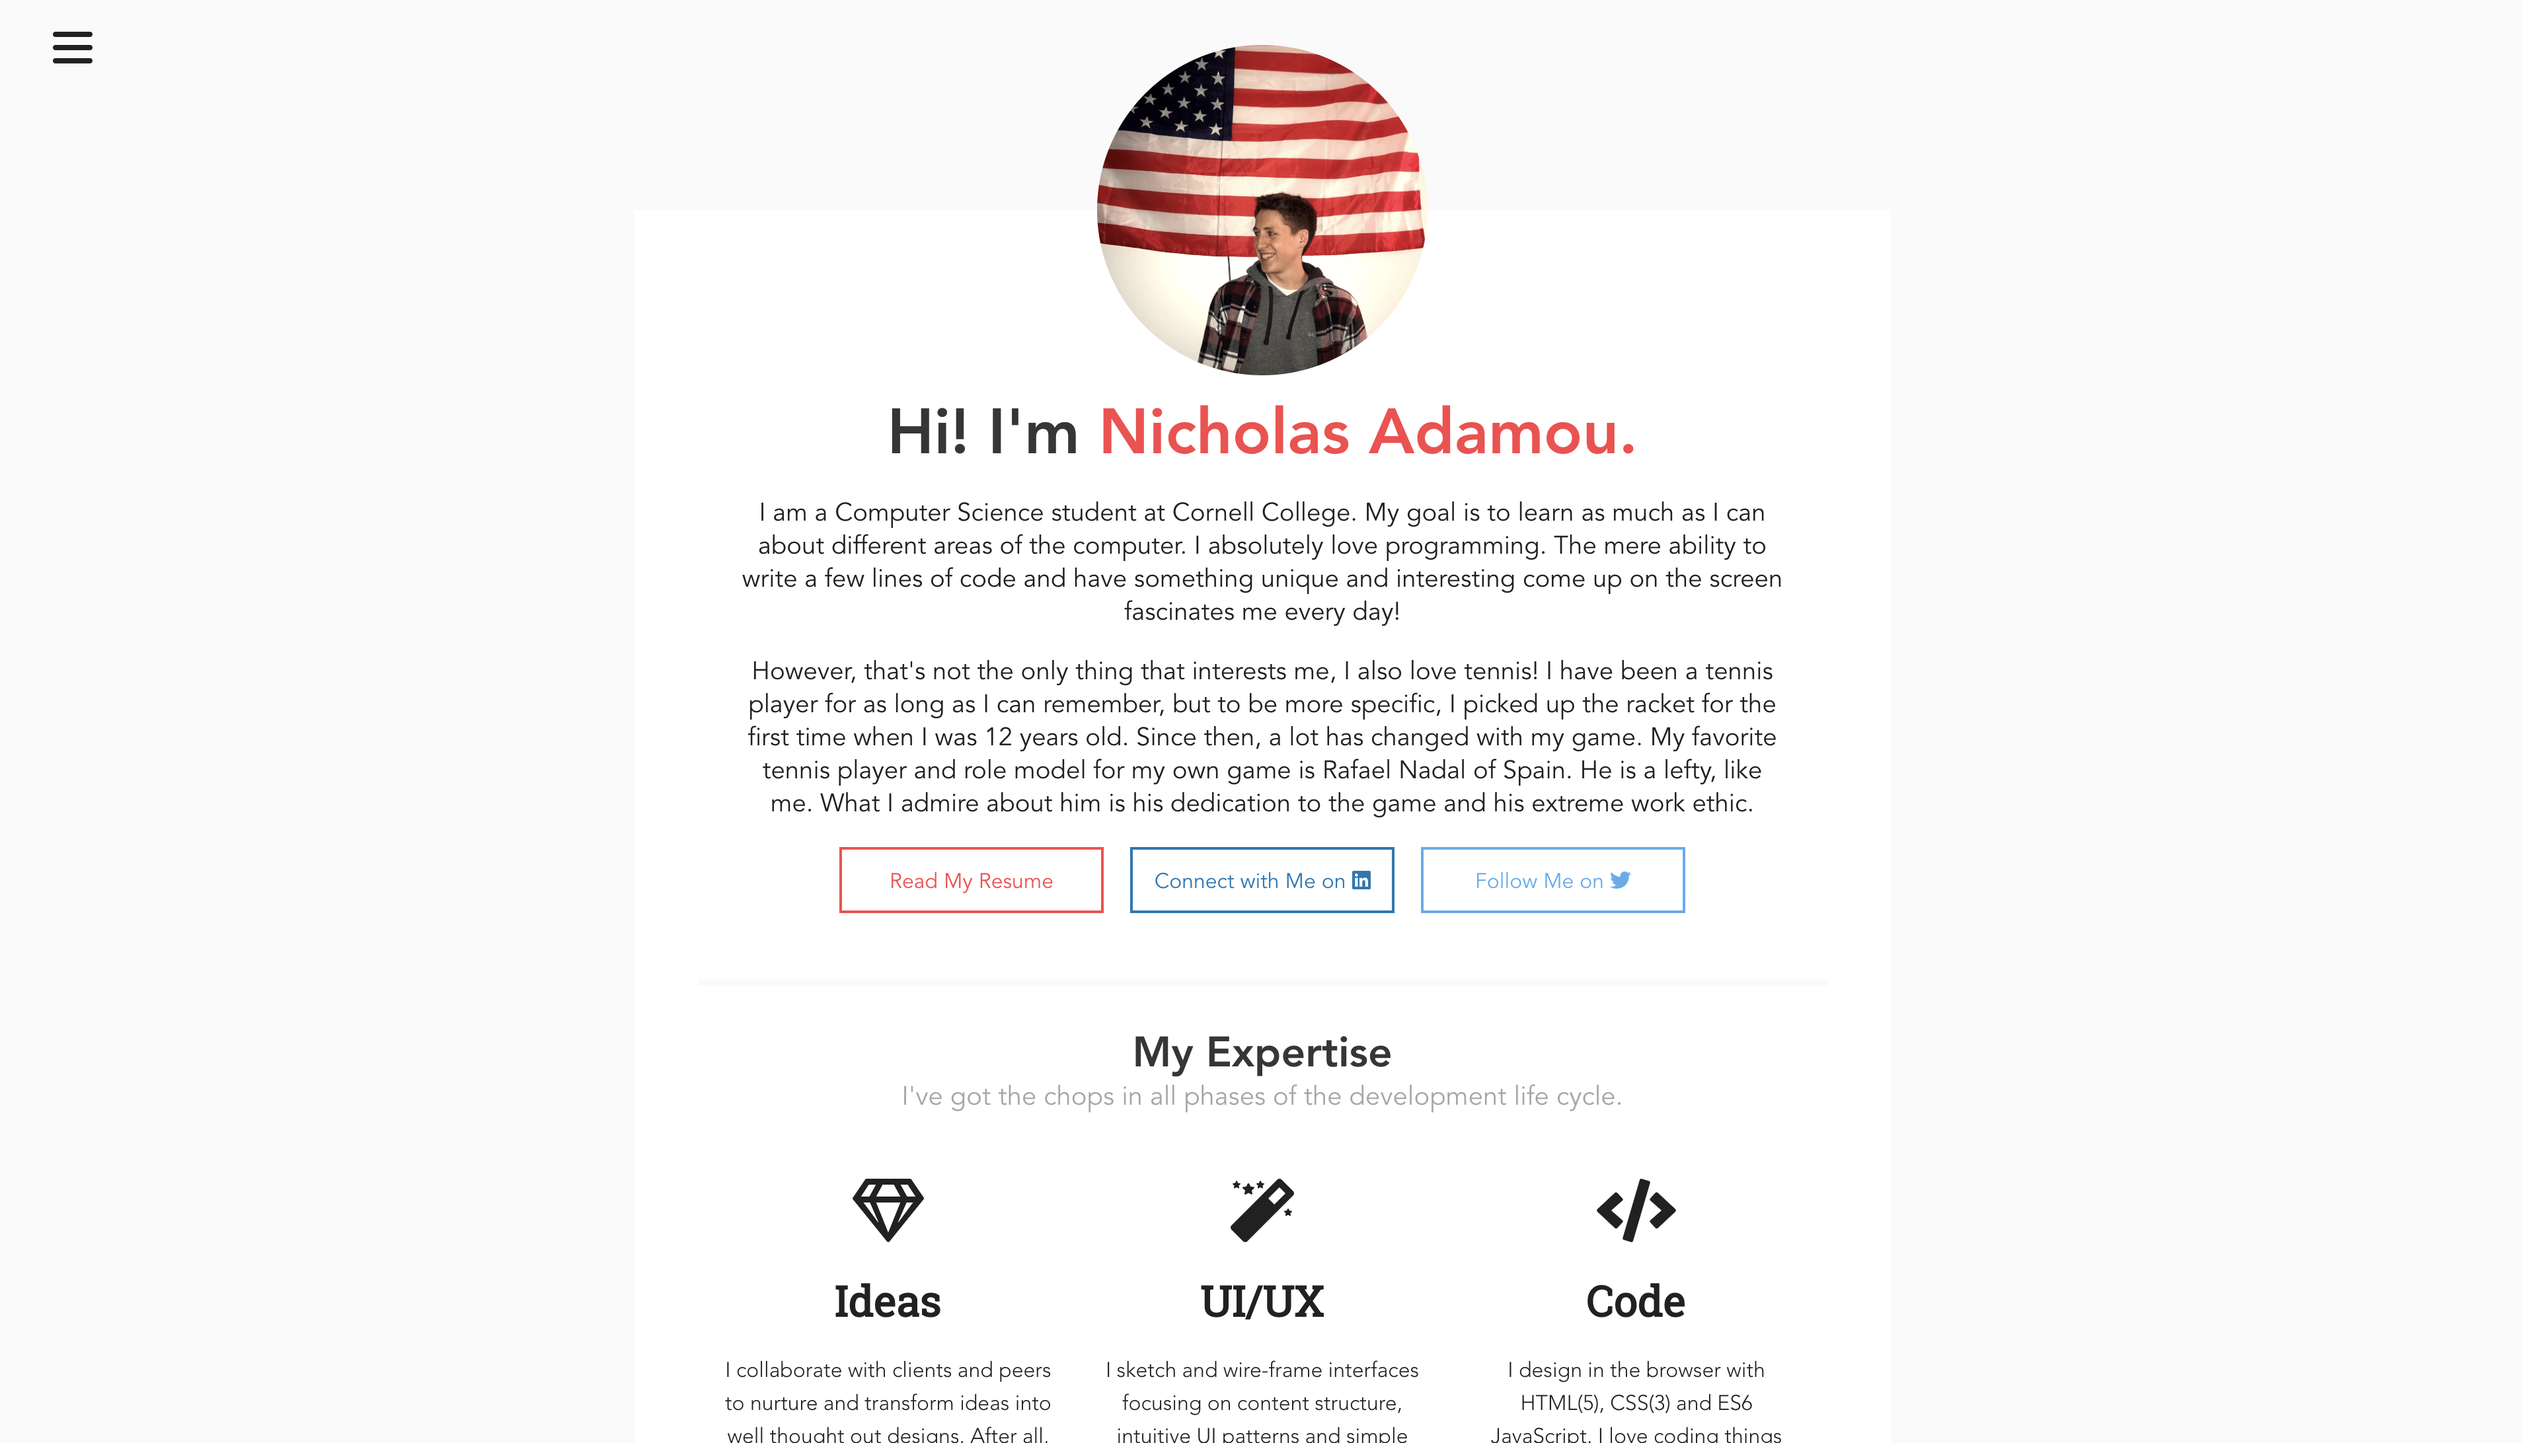
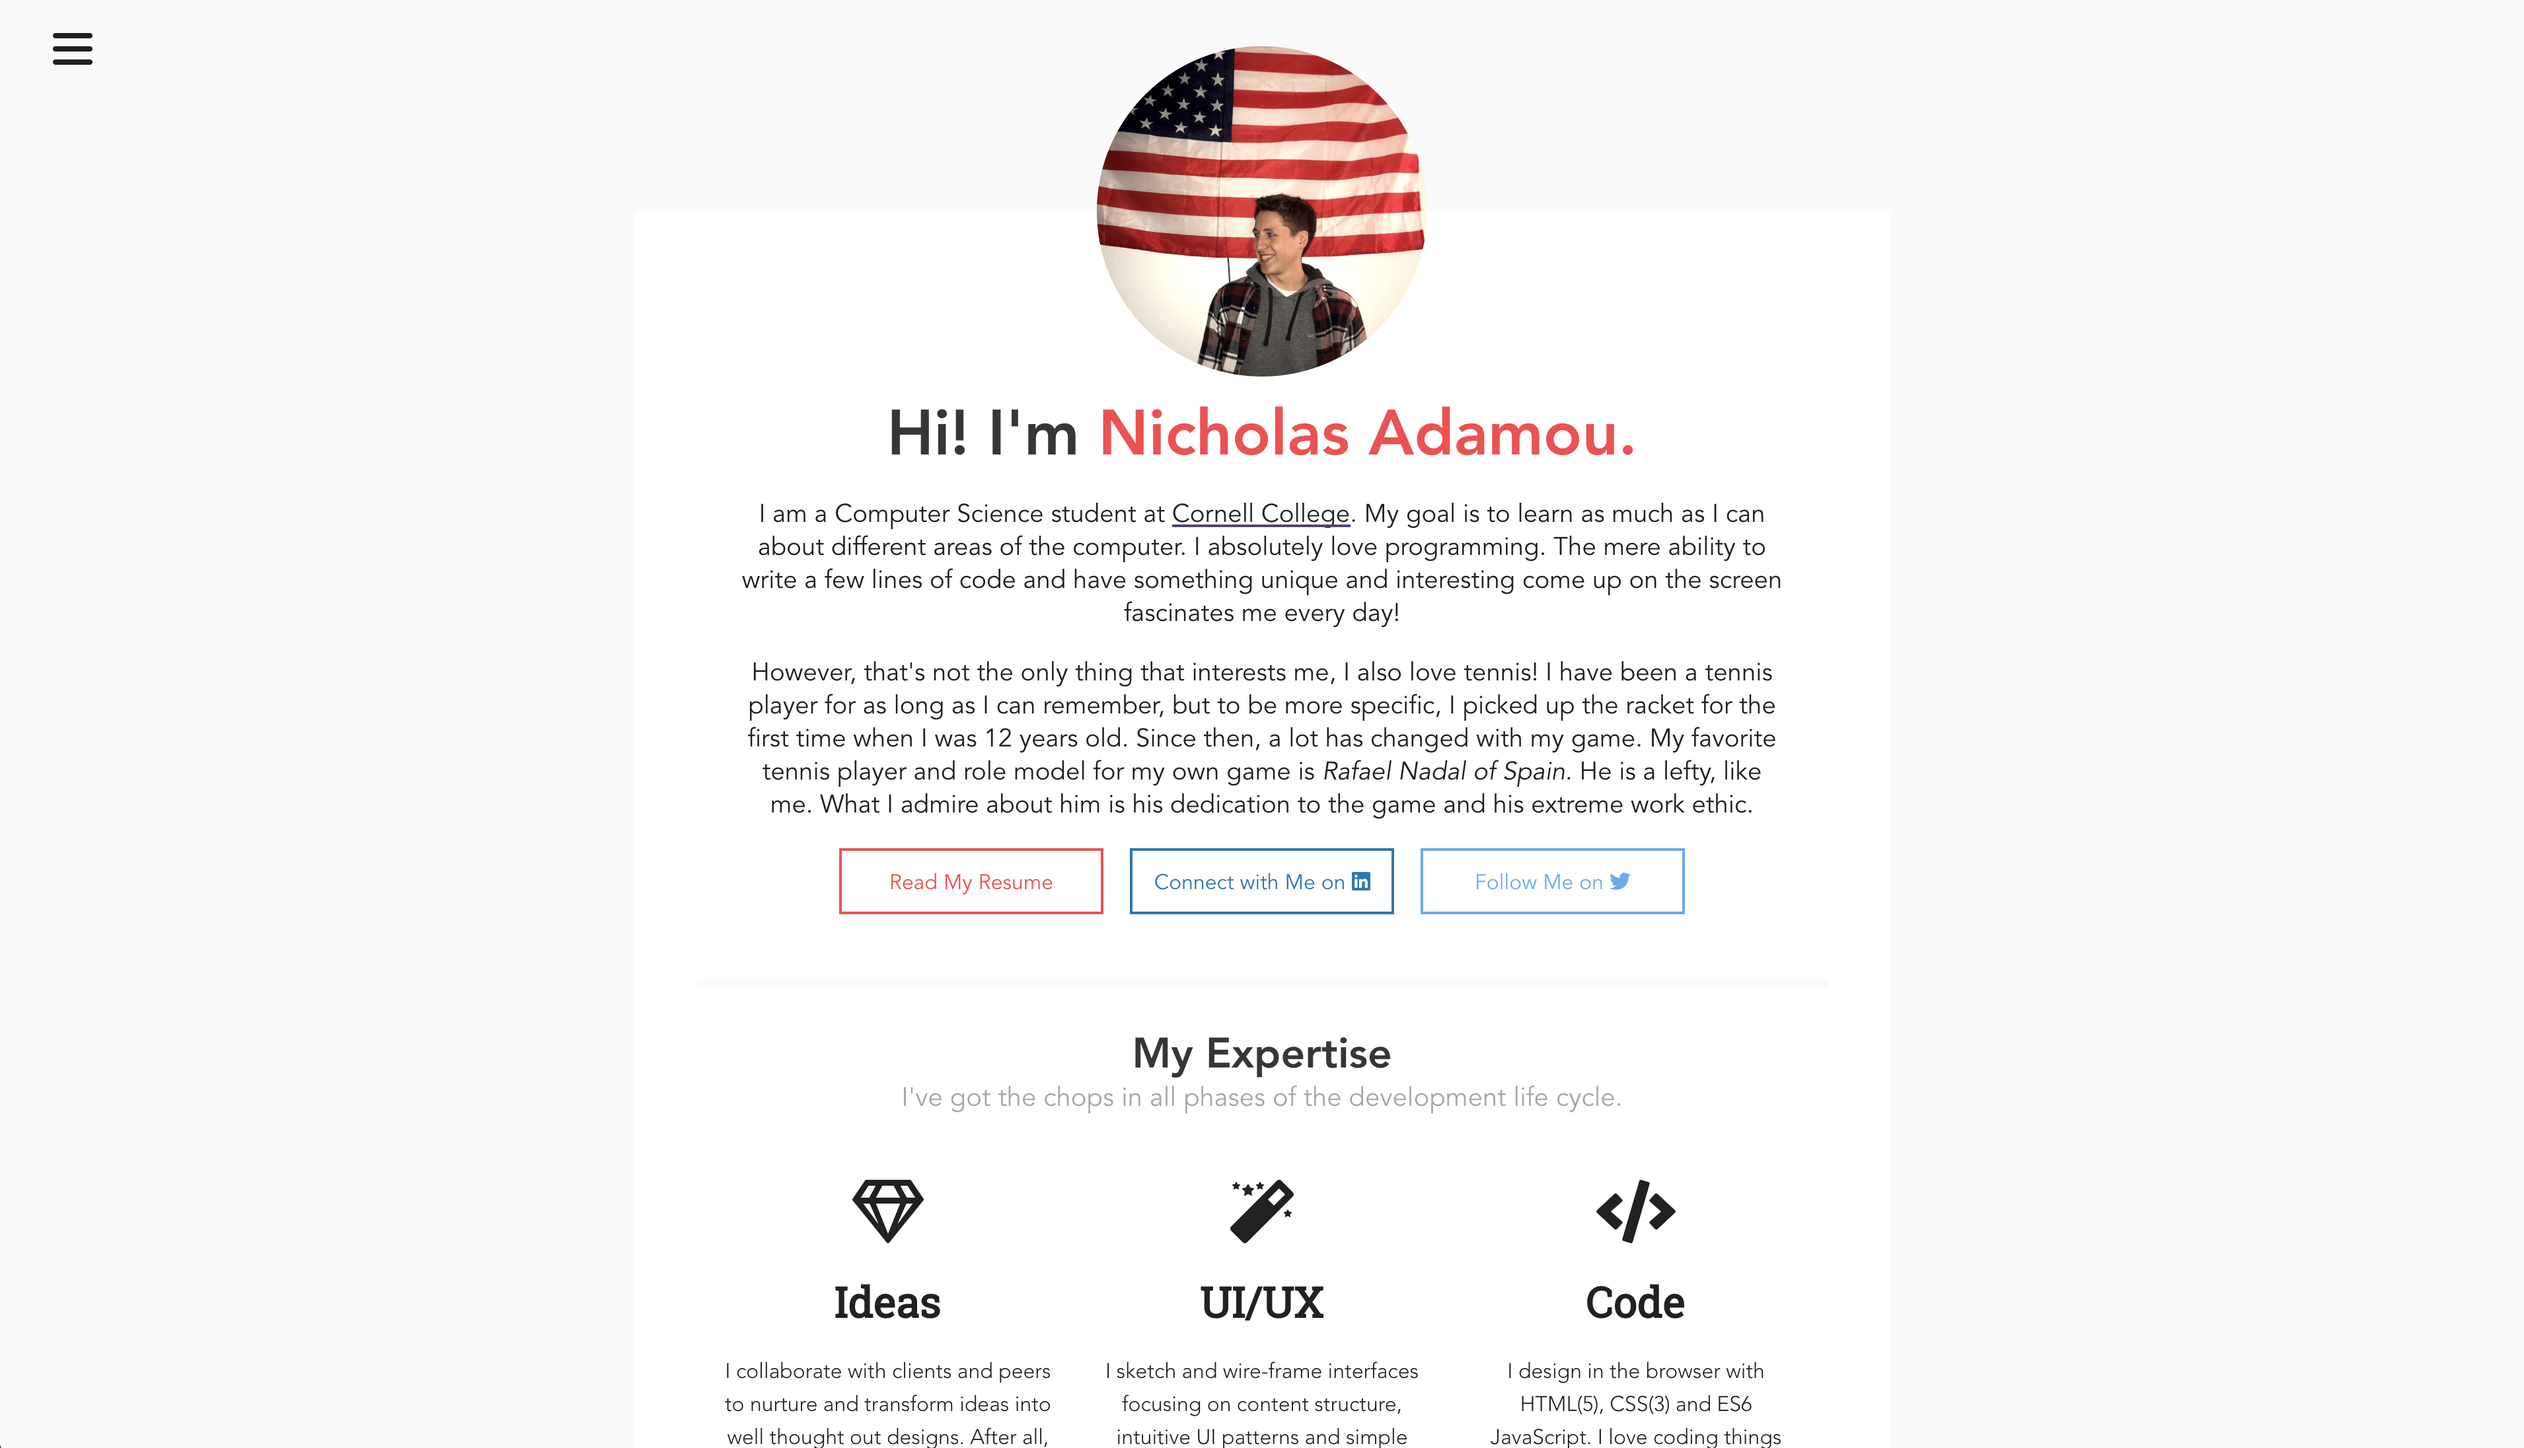
updated 'about-me' section

diff --git a/src/sass/sections/_about_me.scss b/src/sass/sections/_about_me.scss
@@ -46,6 +46,44 @@
 
 			padding: 10px 25px;
 		}
+
+		a {
+			display: inline-block;
+
+			position: relative;
+
+			text-decoration: none;
+
+			color: var(--color-black);
+
+			transition: color 200ms;
+
+			&:before {
+				content: "";
+
+				position: absolute;
+				top: 80%;
+				left: 0;
+				right: 0;
+
+				height: 2px;
+
+				opacity: 1;
+				background-color: currentColor;
+
+				transition: all 300ms cubic-bezier(0.68, -0.55, 0.265, 1.55);
+			}
+
+			&.cornell {
+				&:before {
+					background-color: var(--color-cornell);
+				}
+
+				&:hover {
+					color: var(--color-cornell);
+				}
+			}
+		}
 	}
 
 	.btn {

diff --git a/gulp/config.js b/gulp/config.js
@@ -12,7 +12,7 @@ module.exports = function() {
          * If it is set to an empty string the environment will be extract from
          * the NODE_ENV environment var.
          */
-        environment: 'development',
+        environment: 'production',
         FTP: {
             host: 'HOST',
             user: 'USER',

diff --git a/src/sass/base/_variables.scss b/src/sass/base/_variables.scss
@@ -9,6 +9,7 @@ $yellow: #FFF498;
 $github: #161514;
 $twitter: #55acee;
 $linkedin: #0077B5;
+$cornell: #583d78;
 //-scrollbar
 $scrollbar: $white;
 $scrollbar-bg: $black;

diff --git a/src/sass/base/_base.scss b/src/sass/base/_base.scss
@@ -62,6 +62,7 @@
 	--color-github: #{$github};
 	--color-twitter: #{$twitter};
 	--color-linkedin: #{$linkedin};
+	--color-cornell: #{$cornell};
 }
 
 * {
